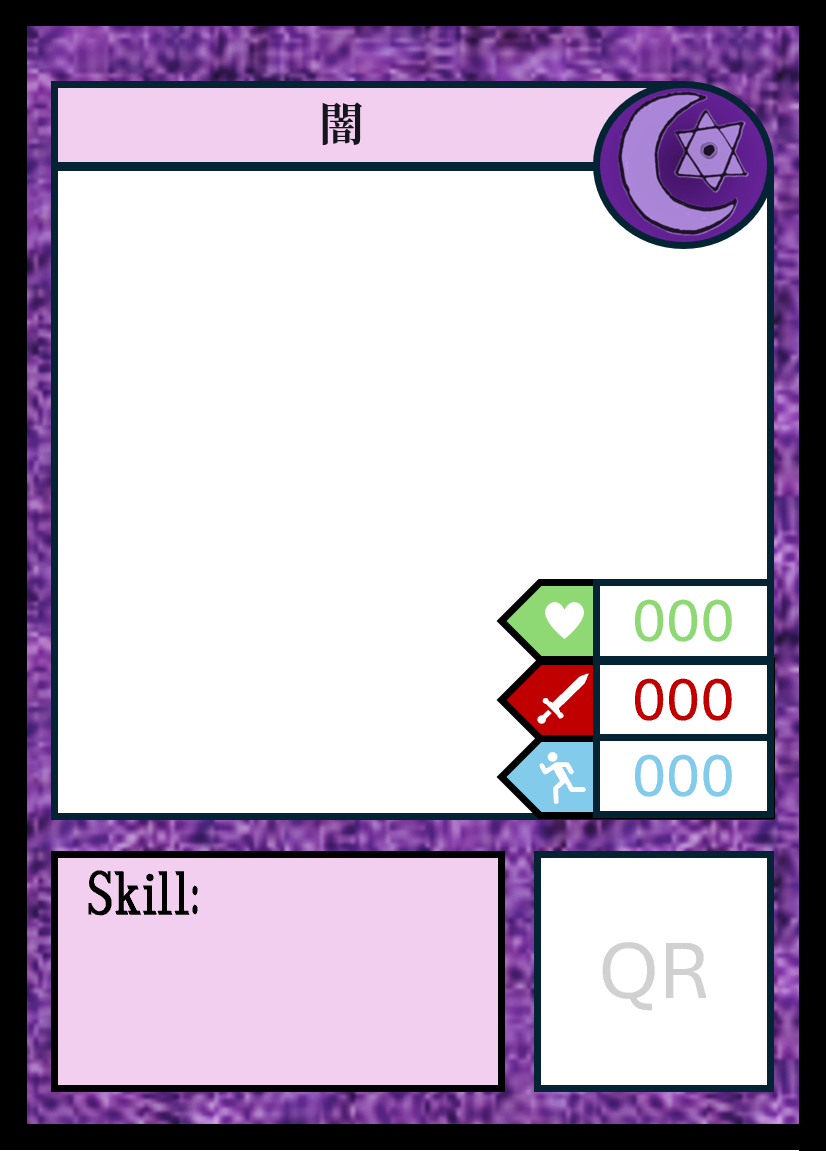
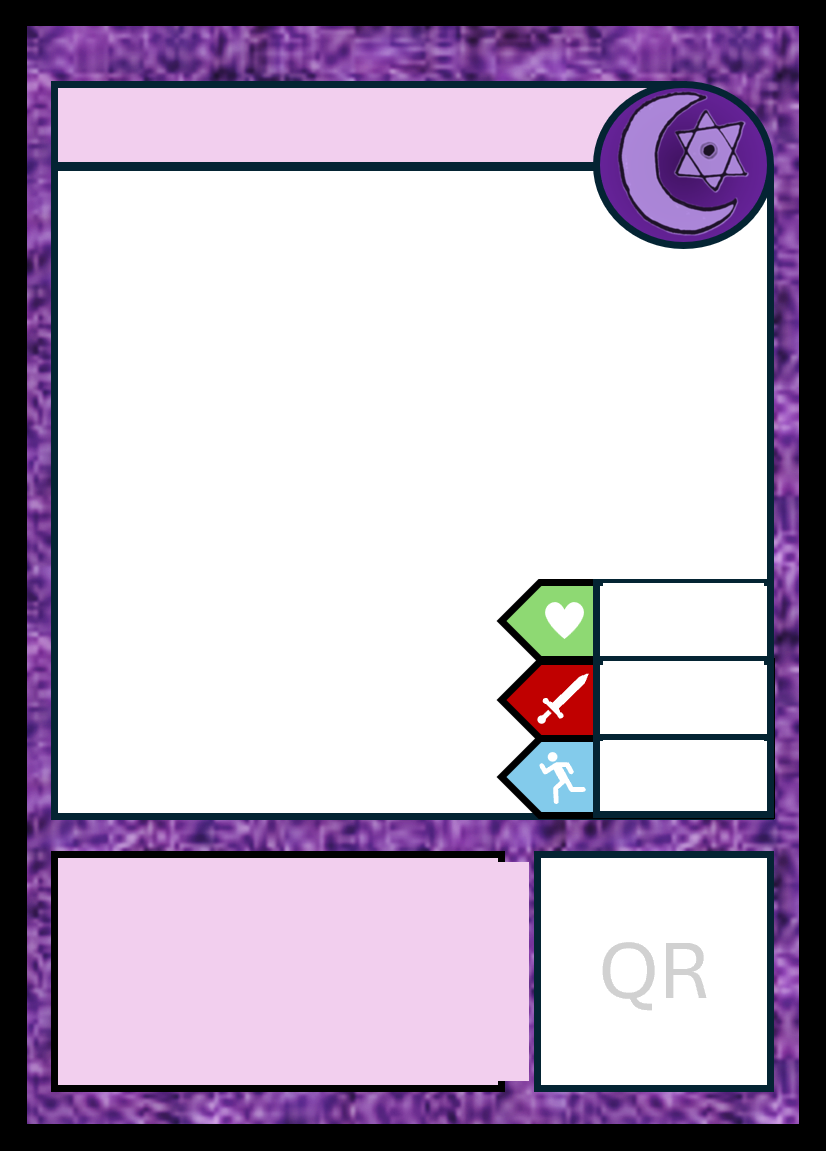
Update

diff --git a/docs/style.css b/docs/style.css
@@ -313,6 +313,7 @@ h1 {
   transform: translateY(-160px) rotate(-12deg) scale(0.6);
   position: relative;
   z-index: 2;
+  container-type: inline-size;
 }
 
 .reveal-card.show {
@@ -511,26 +512,28 @@ h1 {
   width: 18%;
   text-align: center;
   font-weight: 900;
-  font-size: clamp(0.85rem, 3.6vw, 1.05rem);
-  color: #7a1616;
+  font-size: 7.3cqw;
+  line-height: 1;
   font-variant-numeric: tabular-nums;
+  -webkit-text-stroke: 0.45cqw #042433;
+  paint-order: stroke fill;
   opacity: 0;
   z-index: 7;
 }
 
 .overlay-hp {
   top: 51.5%;
-  color: #2c6b2f;
+  color: #8ed973;
 }
 
 .overlay-atk {
   top: 58.3%;
-  color: #7a1616;
+  color: #c00000;
 }
 
 .overlay-spd {
   top: 65.1%;
-  color: #1f5e8c;
+  color: #83cbeb;
 }
 
 .reveal-card.reveal-pop .overlay-value {
@@ -570,8 +573,9 @@ h1 {
 .skill-name {
   margin: 0 0 3px;
   font-weight: 700;
-  color: #1c1712;
-  font-size: clamp(0.6rem, 2.6vw, 0.75rem);
+  color: #000;
+  font-size: 6.8cqw;
+  line-height: 1.1;
 }
 
 .skill-description {
